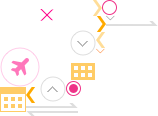
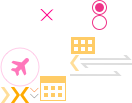
Signed-off-by: rory chou <zhouhaotian@lvmama.com>

diff --git a/src/css/flight/flight.css b/src/css/flight/flight.css
@@ -49,15 +49,15 @@
 
 .ft-price-calendar li .price-more { font-size: 14px; color: #999; }
 
-.ft-price-calendar .ft-pc { width: 74px; width: 72px\9; background: #fff9ef; cursor: pointer; text-align: center; }
+.ft-price-calendar .ft-pc { width: 73px; width: 72px\9; background: #fff9ef; cursor: pointer; text-align: center; }
 
 .ft-price-calendar .ft-pc:hover, .ft-price-calendar .ft-pc.active { background: #ffcc66; }
 
-.ft-price-calendar .ft-pc:hover i, .ft-price-calendar .ft-pc.active i { background: url("../../imgs/flight/sprite/icon-flight-calendar-hover.png") no-repeat center; height: 25px; width: 26px; }
+.ft-price-calendar .ft-pc:hover i, .ft-price-calendar .ft-pc.active i { background: no-repeat center;background-position: -70px -30px; height: 25px; width: 26px; }
 
 .ft-price-calendar .ft-pc:hover p, .ft-price-calendar .ft-pc.active p { color: #fff; }
 
-.ft-price-calendar .ft-pc i { display: block; margin: 6px 0 0 25px; *margin-left: 0; background: url("../../imgs/flight/sprite/icon-flight-calendar.png") no-repeat center; height: 25px; width: 26px; }
+.ft-price-calendar .ft-pc i { display: block; margin: 6px 0 0 25px; *margin-left: 0; background: no-repeat center;background-position: -40px -76px; height: 25px; width: 26px; }
 
 .ft-price-calendar .ft-pc p { font-size: 12px; color: #666; }
 
@@ -67,17 +67,17 @@
 
 .ft-price-box ul { float: left; width: 50%; }
 
-.ft-price-calendar .slider-btn-left i { background: url("../../imgs/flight/sprite/flight-left-useful.png") no-repeat center; height: 16px; width: 10px; }
+.ft-price-calendar .slider-btn-left i { background: no-repeat center;background-position: -20px -87px; height: 16px; width: 10px; }
 
 .ft-price-calendar .slider-btn-left.nomore-calendar { cursor: not-allowed; }
 
-.ft-price-calendar .slider-btn-left.nomore-calendar i { background: url("../../imgs/flight/sprite/flight-left-not.png") no-repeat center; height: 16px; width: 10px; }
+.ft-price-calendar .slider-btn-left.nomore-calendar i { background: no-repeat center;background-position: -70px -55px; height: 16px; width: 10px; }
 
-.ft-price-calendar .slider-btn-right i { background: url("../../imgs/flight/sprite/flight-right-useful.png") no-repeat center; height: 16px; width: 10px; }
+.ft-price-calendar .slider-btn-right i { background: no-repeat center;background-position: -10px -87px; height: 16px; width: 10px; }
 
 .ft-price-calendar .slider-btn-right.nomore-calendar { cursor: not-allowed; }
 
-.ft-price-calendar .slider-btn-right.nomore-calendar i { background: url("../../imgs/flight/sprite/flight-right-not.png") no-repeat center; height: 16px; width: 10px; }
+.ft-price-calendar .slider-btn-right.nomore-calendar i { background: no-repeat center;background-position: 0 -87px; height: 16px; width: 10px; }
 
 .ft-list { background: #f5f5f5; }
 
@@ -874,15 +874,15 @@
 
 .tl-all .tl-part-tips .tl-more-btn { color: #666; bottom: 0px; right: 15px; width: auto; height: auto; border: 0px; }
 
-.tl-all .tl-part-tips .tl-more-btn i { background: url("../../imgs/flight/sprite/icon-arrow.png") no-repeat center; height: 6px; width: 9px; }
+.tl-all .tl-part-tips .tl-more-btn i { background: no-repeat center;background-position: -30px -93px; height: 6px; width: 9px; }
 
 .tl-all .tl-part-tips .tl-more-btn:hover { color: #f60; }
 
-.tl-all .tl-part-tips .tl-more-btn:hover i { background: url("../../imgs/flight/sprite/icon-arrow-hover.png") no-repeat center; height: 6px; width: 9px; }
+.tl-all .tl-part-tips .tl-more-btn:hover i { background: no-repeat center;background-position: -30px -87px; height: 6px; width: 9px; }
 
 .tl-all-open .tl-part-tips .tl-more-btn i { -webkit-transform: rotateX(180deg); transform: rotateX(180deg); }
 
-.tl-all-open .tl-part-tips .tl-more-btn:hover i { background: url("../../imgs/flight/sprite/icon-arrow-hover.png") no-repeat center; height: 6px; width: 9px; }
+.tl-all-open .tl-part-tips .tl-more-btn:hover i { background: no-repeat center;background-position: -30px -87px; height: 6px; width: 9px; }
 
 .ticket-list .tl-item-open .select-btn-flight { /*background: url('../../imgs/flight/sprite/icon-arrow-up.png') no-repeat center; height: 26px; width: 26px;*/ -webkit-transform: rotateX(180deg); transform: rotateX(180deg); }
 
@@ -950,19 +950,19 @@
 
 .canderBox1 .ui-calendar .calmonth[data-offset='1'] .caltitle { border-color: #ee3388; line-height: 30px; height: 30px; margin-left: -6px; }
 
-.canderBox1 .ui-calendar .month-prev { top: 0px; left: 0px; background-image: url("../../imgs/flight/sprite/icon-calendar-left.png"); height: 30px; width: 30px; }
+.canderBox1 .ui-calendar .month-prev { top: 0px; left: 0px; background-position: -40px -46px; height: 30px; width: 30px; }
 
-.canderBox1 .ui-calendar .month-next { top: 0px; right: 0px; background-image: url("../../imgs/flight/sprite/icon-calendar-right.png"); height: 30px; width: 30px; }
+.canderBox1 .ui-calendar .month-next { top: 0px; right: 0px; background-position: -62px 0; height: 30px; width: 30px; }
 
-.canderBox1 .ui-calendar .month-prev:hover { background-image: url("../../imgs/flight/sprite/icon-calendar-left.png"); height: 30px; width: 30px; background-color: #a81c54; }
+.canderBox1 .ui-calendar .month-prev:hover { background-position: -40px -46px; height: 30px; width: 30px; background-color: #a81c54; }
 
-.canderBox1 .ui-calendar .month-next:hover { background-image: url("../../imgs/flight/sprite/icon-calendar-right.png"); height: 30px; width: 30px; background-color: #a81c54; }
+.canderBox1 .ui-calendar .month-next:hover { background-position: -62px 0; height: 30px; width: 30px; background-color: #a81c54; }
 
 .canderBox1 .ui-calendar .caldate, .canderBox1 .ui-calendar .caldate:hover, .canderBox1 .ui-calendar .nodate, .canderBox1 .ui-calendar .date { width: 64px; height: 59px; }
 
-.canderBox1 .nchclose { position: absolute; top: -47px; right: 0px; cursor: pointer; background: url("../../imgs/flight/sprite/icon-calendar-close.png") no-repeat center; height: 47px; width: 32px; }
+.canderBox1 .nchclose { position: absolute; top: -47px; right: 0px; cursor: pointer; background: no-repeat center;background-position: 0 0; height: 47px; width: 32px; }
 
-.canderBox1 .nchclose:hover { background: url("../../imgs/flight/sprite/icon-calendar-close-hover.png") no-repeat center; height: 47px; width: 32px; }
+.canderBox1 .nchclose:hover { background: no-repeat center;background-position: -32px 0; height: 47px; width: 32px; }
 
 .canderBox1 .ui-calendar { width: auto; }
 
@@ -1010,11 +1010,11 @@ body .search-num { margin-bottom: 0; }
 
 .search-contents-flight .default-box .city { height: 42px; }
 
-.search-contents-flight .default-box .city .icon { background: url("../../imgs/flight/sprite/icon-flight.png") no-repeat center; height: 40px; width: 40px; }
+.search-contents-flight .default-box .city .icon { background: no-repeat center;background-position: 0 -47px; height: 40px; width: 40px; }
 
-.search-contents-flight .default-box .city .icon-flight-double, .search-contents-flight .default-box .city .icon-flight-single { display: inline-block; *display: inline; *zoom: 1; background: url("../../imgs/flight/sprite/flight-double.png") no-repeat center; height: 13px; width: 52px; margin: 17px 15px 0 15px; vertical-align: top; }
+.search-contents-flight .default-box .city .icon-flight-double, .search-contents-flight .default-box .city .icon-flight-single { display: inline-block; *display: inline; *zoom: 1; background: no-repeat center;background-position: -80px -55px; height: 13px; width: 52px; margin: 17px 15px 0 15px; vertical-align: top; }
 
-.search-contents-flight .default-box .city .icon-flight-single { background: url("../../imgs/flight/sprite/flight-single.png") no-repeat center; height: 5px; margin-top: 21px; }
+.search-contents-flight .default-box .city .icon-flight-single { background: no-repeat center;background-position: -70px -71px; height: 5px; margin-top: 21px; }
 
 .search-contents-flight .default-box .city .flight-from, .search-contents-flight .default-box .city .flight-to { display: inline-block; *display: inline; *zoom: 1; line-height: 30px; }
 
@@ -1030,11 +1030,11 @@ body .search-num { margin-bottom: 0; }
 
 .search-contents-flight .change-box .flight-tabs .flight-single.current, .search-contents-flight .change-box .flight-tabs .current.flight-double { color: #e38; }
 
-.search-contents-flight .change-box .flight-tabs .flight-single.current span, .search-contents-flight .change-box .flight-tabs .current.flight-double span { background: url("../../imgs/flight/sprite/icon-flight-chosen.png") no-repeat center; height: 15px; width: 15px; }
+.search-contents-flight .change-box .flight-tabs .flight-single.current span, .search-contents-flight .change-box .flight-tabs .current.flight-double span { background: no-repeat center;background-position: -92px 0; height: 15px; width: 15px; }
 
-.search-contents-flight .change-box .flight-tabs .flight-single span, .search-contents-flight .change-box .flight-tabs .flight-double span { display: inline-block; *display: inline; *zoom: 1; background: url("../../imgs/flight/sprite/icon-flight-not.png") no-repeat center; height: 15px; width: 15px; vertical-align: middle; margin: 2px 6px 0 0; }
+.search-contents-flight .change-box .flight-tabs .flight-single span, .search-contents-flight .change-box .flight-tabs .flight-double span { display: inline-block; *display: inline; *zoom: 1; background: no-repeat center;background-position: -92px -15px; height: 15px; width: 15px; vertical-align: middle; margin: 2px 6px 0 0; }
 
-.search-contents-flight .change-box .city .icon { background: url("../../imgs/flight/sprite/icon-flight.png") no-repeat center; }
+.search-contents-flight .change-box .city .icon { background: no-repeat center;background-position: 0 -47px; }
 
 .search-contents-flight .change-box .date .input-wrapper { padding-top: 36px; }
 
@@ -1065,3 +1065,127 @@ body .search-num { margin-bottom: 0; }
 .tl-confirm { border: 1px solid #ff9900; border-radius: 2px; width: 54px; height: 14px; text-align: center; font-size: 12px; color: #ff9900; line-height: 14px; margin-top: 15px; }
 
 .tl-confirm.tl-confirm-no { border: 0; }
+
+
+/* ../../imgs/flight/flight.png */
+.ft-price-calendar .ft-pc:hover i,
+.ft-price-calendar .ft-pc.active i,
+.ft-price-calendar .ft-pc i,
+.ft-price-calendar .slider-btn-left i,
+.ft-price-calendar .slider-btn-left.nomore-calendar i,
+.ft-price-calendar .slider-btn-right i,
+.ft-price-calendar .slider-btn-right.nomore-calendar i,
+.tl-all .tl-part-tips .tl-more-btn i,
+.tl-all .tl-part-tips .tl-more-btn:hover i,
+.tl-all-open .tl-part-tips .tl-more-btn:hover i,
+.canderBox1 .ui-calendar .month-prev,
+.canderBox1 .ui-calendar .month-next,
+.canderBox1 .ui-calendar .month-prev:hover,
+.canderBox1 .ui-calendar .month-next:hover,
+.canderBox1 .nchclose,
+.canderBox1 .nchclose:hover,
+.search-contents-flight .default-box .city .icon,
+.search-contents-flight .default-box .city .icon-flight-double,
+.search-contents-flight .default-box .city .icon-flight-single,
+.search-contents-flight .change-box .flight-tabs .flight-single.current span,
+.search-contents-flight .change-box .flight-tabs .current.flight-double span,
+.search-contents-flight .change-box .flight-tabs .flight-single span,
+.search-contents-flight .change-box .flight-tabs .flight-double span,
+.search-contents-flight .change-box .city .icon{
+background-image: url(../../imgs/flight/flight.png);
+}
+
+
+/* ../../imgs/flight/flight@2x.png */
+@media only screen and (-o-min-device-pixel-ratio: 3/2), only screen and (min--moz-device-pixel-ratio: 1.5), only screen and (-webkit-min-device-pixel-ratio: 1.5), only screen and (min-resolution: 240dpi), only screen and (min-resolution: 2dppx) {
+.ft-price-calendar .ft-pc:hover i,
+.ft-price-calendar .ft-pc.active i,
+.ft-price-calendar .ft-pc i,
+.ft-price-calendar .slider-btn-left i,
+.ft-price-calendar .slider-btn-left.nomore-calendar i,
+.ft-price-calendar .slider-btn-right i,
+.ft-price-calendar .slider-btn-right.nomore-calendar i,
+.tl-all .tl-part-tips .tl-more-btn i,
+.tl-all .tl-part-tips .tl-more-btn:hover i,
+.tl-all-open .tl-part-tips .tl-more-btn:hover i,
+.canderBox1 .ui-calendar .month-prev,
+.canderBox1 .ui-calendar .month-next,
+.canderBox1 .ui-calendar .month-prev:hover,
+.canderBox1 .ui-calendar .month-next:hover,
+.canderBox1 .nchclose,
+.canderBox1 .nchclose:hover,
+.search-contents-flight .default-box .city .icon,
+.search-contents-flight .default-box .city .icon-flight-double,
+.search-contents-flight .default-box .city .icon-flight-single,
+.search-contents-flight .change-box .flight-tabs .flight-single.current span,
+.search-contents-flight .change-box .flight-tabs .current.flight-double span,
+.search-contents-flight .change-box .flight-tabs .flight-single span,
+.search-contents-flight .change-box .flight-tabs .flight-double span,
+.search-contents-flight .change-box .city .icon{
+background-image: url(../../imgs/flight/flight@2x.png);
+background-size: 132px auto;
+}
+.ft-price-calendar .ft-pc:hover i, .ft-price-calendar .ft-pc.active i{
+background-position: -70px -30px;
+}
+.ft-price-calendar .ft-pc i{
+background-position: -40px -76px;
+}
+.ft-price-calendar .slider-btn-left i{
+background-position: -20px -87px;
+}
+.ft-price-calendar .slider-btn-left.nomore-calendar i{
+background-position: -70px -55px;
+}
+.ft-price-calendar .slider-btn-right i{
+background-position: -10px -87px;
+}
+.ft-price-calendar .slider-btn-right.nomore-calendar i{
+background-position: 0 -87px;
+}
+.tl-all .tl-part-tips .tl-more-btn i{
+background-position: -30px -93px;
+}
+.tl-all .tl-part-tips .tl-more-btn:hover i{
+background-position: -30px -87px;
+}
+.tl-all-open .tl-part-tips .tl-more-btn:hover i{
+background-position: -30px -87px;
+}
+.canderBox1 .ui-calendar .month-prev{
+background-position: -40px -46px;
+}
+.canderBox1 .ui-calendar .month-next{
+background-position: -62px 0;
+}
+.canderBox1 .ui-calendar .month-prev:hover{
+background-position: -40px -46px;
+}
+.canderBox1 .ui-calendar .month-next:hover{
+background-position: -62px 0;
+}
+.canderBox1 .nchclose{
+background-position: 0 0;
+}
+.canderBox1 .nchclose:hover{
+background-position: -32px 0;
+}
+.search-contents-flight .default-box .city .icon{
+background-position: 0 -47px;
+}
+.search-contents-flight .default-box .city .icon-flight-double, .search-contents-flight .default-box .city .icon-flight-single{
+background-position: -80px -55px;
+}
+.search-contents-flight .default-box .city .icon-flight-single{
+background-position: -70px -71px;
+}
+.search-contents-flight .change-box .flight-tabs .flight-single.current span, .search-contents-flight .change-box .flight-tabs .current.flight-double span{
+background-position: -92px 0;
+}
+.search-contents-flight .change-box .flight-tabs .flight-single span, .search-contents-flight .change-box .flight-tabs .flight-double span{
+background-position: -92px -15px;
+}
+.search-contents-flight .change-box .city .icon{
+background-position: 0 -47px;
+} 
+}

diff --git a/src/combo.html b/src/combo.html
@@ -13,7 +13,6 @@
     <link rel="stylesheet" href="http://pic.lvmama.com/styles/v5/modules/tags.css">
     <link rel="stylesheet" href="http://pic.lvmama.com/styles/v5/modules/paging.css">
     <link rel="stylesheet" href="http://pic.lvmama.com/styles/v5/modules/tip.css">
-    <link rel="stylesheet" href="http://pic.lvmama.com/styles/flight/v4/tip.css">
     <link rel="stylesheet" href="http://pic.lvmama.com/styles/lv/dialog.css">
     <link rel="stylesheet" href="http://pic.lvmama.com/styles/lv/icons.css">
     <link rel="stylesheet" href="http://pic.lvmama.com/styles/v6/comment/comment_index.css">

diff --git a/src/scss/flight/_flight-calendar-list.scss b/src/scss/flight/_flight-calendar-list.scss
@@ -120,7 +120,7 @@
   color: #999;
 }
 .ft-price-calendar .ft-pc {
-  width: 74px;
+  width: 73px;
   width: 72px\9;
   background: $color-bg-orange;
   cursor: pointer;
